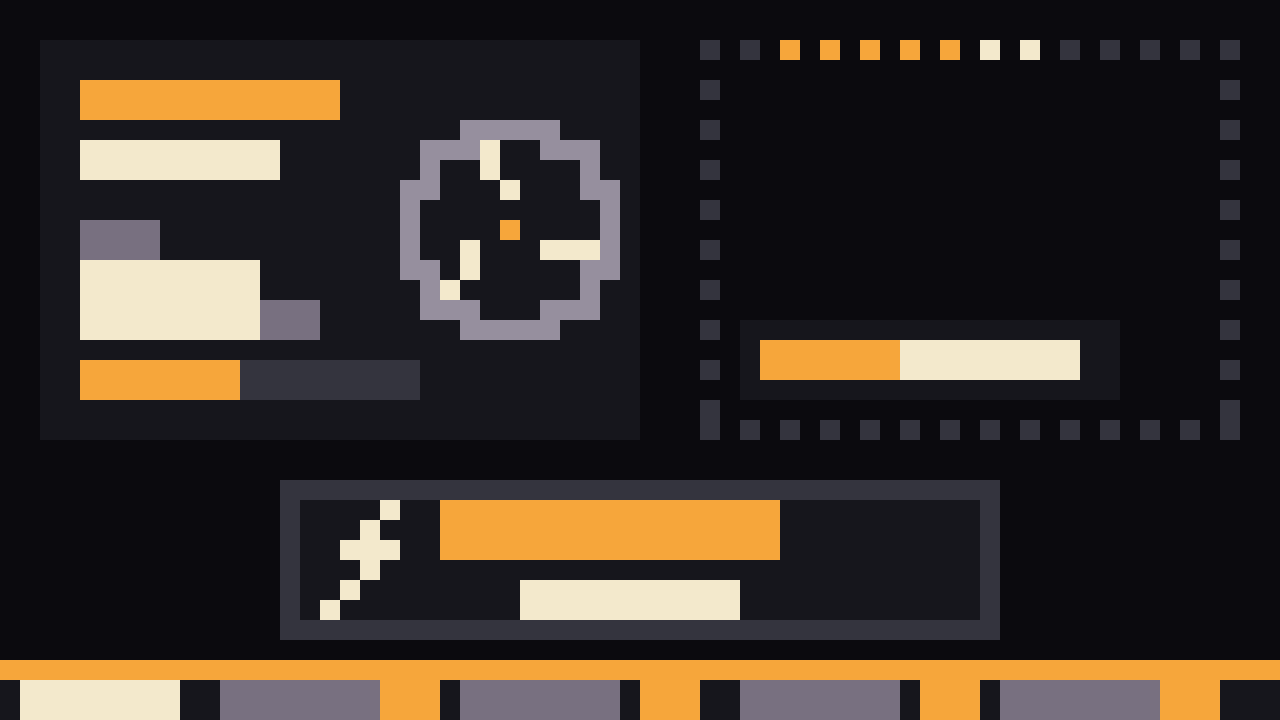
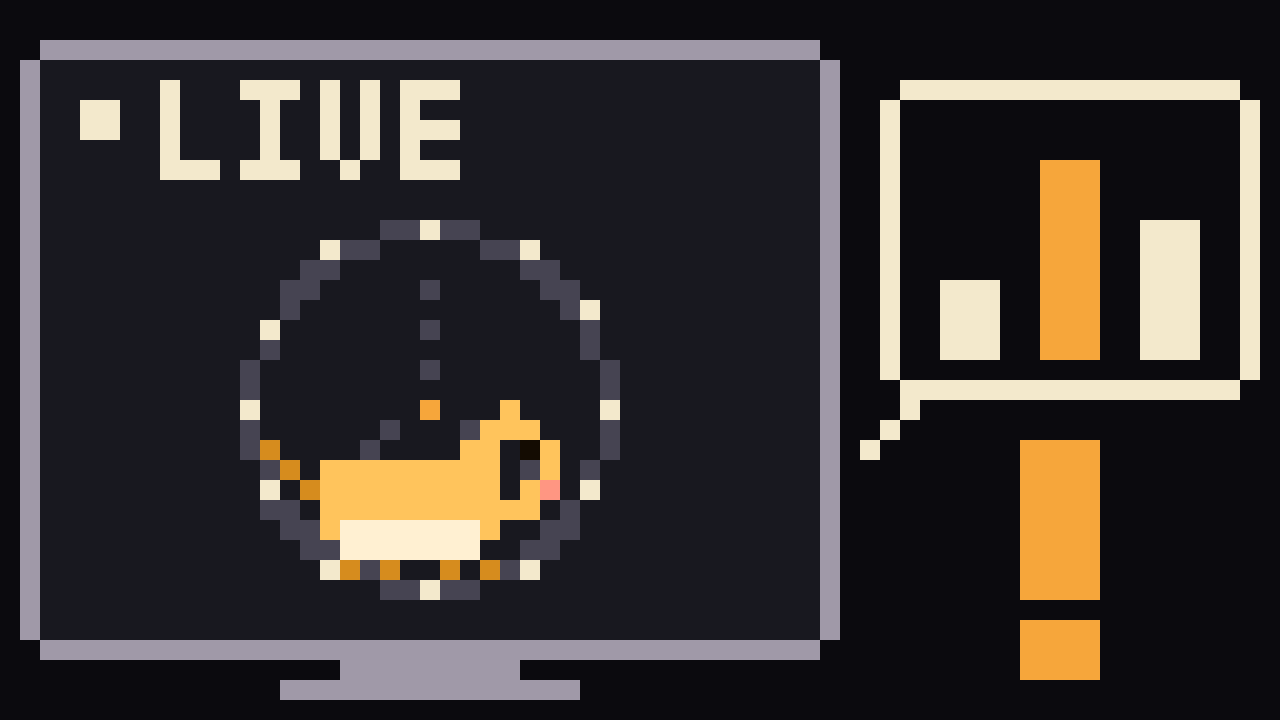
docs: headline image: a LIVE screen with the wheel, a chat bubble with the call bars

diff --git a/tools/card.py b/tools/card.py
@@ -1,13 +1,14 @@
 """The Code Lane headline image, drawn on the board's 64 x 36 LED grid and exported at 20 px per dot (1280 x 720):
-a stream scene with the kit's pieces on it: the LED board with the wheel, a cam frame with its running rim, an alert
-card with the zoomies bolt and the ticker along the bottom. Own drawing. Run: python tools/card.py"""
+a stream screen with LIVE in the corner and Squeektoshi running in his wheel on it, a chat bubble beside it with the
+three Round Call bars, and a big exclamation mark: the chat calls, the wheel settles. Own drawing. Run: python tools/card.py"""
 import math
 from pathlib import Path
 from PIL import Image, ImageDraw
 
 W, H = 64, 36
-BG, PLATE, RIM, DIM = (11, 10, 14), (22, 22, 28), (150, 143, 158), (52, 52, 62)
-AMBER, CREAM, LABEL = (246, 166, 59), (243, 233, 204), (120, 112, 128)
+BG, PLATE, RIM, DIM = (11, 10, 14), (24, 24, 31), (160, 153, 168), (70, 68, 82)
+AMBER, CREAM = (246, 166, 59), (243, 233, 204)
+FUR, FUR_DK, BELLY, INK, NOSE = (255, 196, 92), (214, 140, 30), (255, 240, 210), (20, 12, 2), (255, 150, 130)
 
 px = {}
 def put(x, y, c):
@@ -15,49 +16,64 @@ def put(x, y, c):
 def rect(x0, y0, x1, y1, c):
     for y in range(y0, y1 + 1):
         for x in range(x0, x1 + 1): put(x, y, c)
-def frame(x0, y0, x1, y1, c, step=1):
-    for x in range(x0, x1 + 1, step): put(x, y0, c); put(x, y1, c)
-    for y in range(y0, y1 + 1, step): put(x0, y, c); put(x1, y, c)
-def ring(cx, cy, r, c):
-    for k in range(int(r * 8)):
-        a = 2 * math.pi * k / int(r * 8)
+def frame(x0, y0, x1, y1, c, round_=True):
+    for x in range(x0, x1 + 1): put(x, y0, c); put(x, y1, c)
+    for y in range(y0, y1 + 1): put(x0, y, c); put(x1, y, c)
+    if round_:
+        for (x, y) in ((x0, y0), (x1, y0), (x0, y1), (x1, y1)): px.pop((x, y), None)
+def disc(cx, cy, r, c, r_in=-1):
+    for y in range(H):
+        for x in range(W):
+            d2 = (x - cx) ** 2 + (y - cy) ** 2
+            if r_in * r_in < d2 <= r * r + r: put(x, y, c)
+def ring(cx, cy, r, c, n=None):
+    n = n or int(r * 8)
+    for k in range(n):
+        a = 2 * math.pi * k / n
         put(round(cx + r * math.cos(a)), round(cy + r * math.sin(a)), c)
-def spoke(cx, cy, r, deg, c):
+def line(x0, y0, x1, y1, c):
+    n = max(abs(x1 - x0), abs(y1 - y0), 1)
+    for i in range(n + 1): put(round(x0 + (x1 - x0) * i / n), round(y0 + (y1 - y0) * i / n), c)
+TINY = {'L': ['100', '100', '100', '100', '111'], 'I': ['111', '010', '010', '010', '111'], 'V': ['101', '101', '101', '101', '010'], 'E': ['111', '100', '111', '100', '111']}
+def tiny(s, x, y, c):
+    for ch in s:
+        for j, row in enumerate(TINY[ch]):
+            for i, b in enumerate(row):
+                if b == '1': put(x + i, y + j, c)
+        x += 4
+
+# the screen: a rounded frame on a stand, a darker plate inside
+rect(2, 3, 40, 31, PLATE)
+frame(1, 2, 41, 32, RIM)
+rect(17, 33, 25, 33, RIM); rect(14, 34, 28, 34, RIM)
+# LIVE in the corner
+put(4, 5, CREAM); put(5, 5, CREAM); put(4, 6, CREAM); put(5, 6, CREAM)
+tiny('LIVE', 8, 4, CREAM)
+
+# the wheel on screen: dim rim, bright rungs, three thin spokes, the axle
+CX, CY, R = 21, 20, 9
+ring(CX, CY, R, DIM)
+ring(CX, CY, R, CREAM, 12)
+for deg in (30, 150, 270):
     a = math.radians(deg)
-    for d in range(2, int(r)): put(round(cx + d * math.cos(a)), round(cy + d * math.sin(a)), c)
+    for d in range(2, R - 1, 2): put(round(CX + d * math.cos(a)), round(CY + d * math.sin(a)), DIM)
+put(CX, CY, AMBER)
+# Squeektoshi running at the bottom of the drum, facing right
+rect(16, 23, 24, 26, FUR); disc(17, 25, 1, FUR); rect(17, 26, 23, 27, BELLY)
+disc(25, 23, 2, FUR); put(25, 20, FUR); put(26, 21, FUR)
+put(26, 22, INK); put(27, 24, NOSE)
+line(15, 24, 13, 22, FUR_DK)
+for x in (17, 19, 22, 24): put(x, 28, FUR_DK)
 
-# the LED board, top left: a plate with text lines and the wheel
-rect(2, 2, 31, 21, PLATE)
-rect(4, 4, 16, 5, AMBER)            # SQUEEKTOSHI
-rect(4, 7, 13, 8, CREAM)            # IS RUNNING
-rect(4, 11, 7, 12, LABEL)           # TODAY
-rect(4, 13, 12, 16, CREAM)          # 3.42
-rect(13, 15, 15, 16, LABEL)         # KM
-rect(4, 18, 20, 19, DIM); rect(4, 18, 11, 19, AMBER)   # block bar
-ring(25, 11, 5, RIM)
-for d in (20, 140, 260): spoke(25, 11, 5, d, CREAM)
-put(25, 11, AMBER)
-
-# the cam frame, top right: a dotted rim with the bright runner on it
-frame(35, 2, 61, 21, DIM, 2)
-for i, (x, y) in enumerate(((39, 2), (41, 2), (43, 2), (45, 2), (47, 2), (49, 2), (51, 2))):
-    put(x, y, CREAM if i >= 5 else AMBER)
-rect(37, 16, 55, 19, PLATE)
-rect(38, 17, 44, 18, AMBER); rect(45, 17, 53, 18, CREAM)   # name plate text
-
-# the alert card, bottom middle: the zoomies bolt and the words
-rect(14, 24, 49, 31, PLATE)
-frame(14, 24, 49, 31, DIM)
-for (x, y) in ((19, 25), (18, 26), (17, 27), (18, 27), (19, 27), (18, 28), (17, 29), (16, 30)): put(x, y, CREAM)
-rect(22, 25, 38, 27, AMBER)         # ZOOMIES!
-rect(26, 29, 36, 30, CREAM)         # 5.0 KM/H
-
-# the ticker along the bottom
-rect(0, 33, 63, 33, AMBER)
-rect(0, 34, 63, 35, PLATE)
-rect(1, 34, 8, 35, CREAM)
-for x0 in (11, 23, 37, 50): rect(x0, 34, x0 + 7, 35, LABEL)
-for x0 in (19, 32, 46, 58): rect(x0, 34, x0 + 2, 35, AMBER)
+# the chat bubble with the three Round Call bars, its tail pointing at the screen
+frame(44, 4, 62, 19, CREAM)
+line(46, 19, 43, 22, CREAM); put(47, 19, CREAM); put(44, 21, CREAM)
+rect(47, 14, 49, 17, CREAM)     # nap
+rect(52, 8, 54, 17, AMBER)      # jog, leading
+rect(57, 11, 59, 17, CREAM)     # zoomies
+# the call: a big exclamation mark
+rect(51, 22, 54, 29, AMBER)
+rect(51, 31, 54, 33, AMBER)
 
 out = Path(__file__).resolve().parent.parent / "docs"
 scale = 20
@@ -66,14 +82,16 @@ d = ImageDraw.Draw(im)
 for (x, y), c in px.items():
     d.rectangle([x * scale, y * scale, (x + 1) * scale - 1, (y + 1) * scale - 1], fill=c)
 im.save(out / "card-headline.png")
-pv = Image.new("RGB", (W * 10, H * 10), (0, 0, 0))
-pd = ImageDraw.Draw(pv)
-for y in range(H):
-    for x in range(W):
-        c = px.get((x, y), BG)
-        lum = (0.3 * c[0] + 0.59 * c[1] + 0.11 * c[2]) / 255
-        v = max(0.08, lum)
-        col = (int(60 * v), int(90 * v), int(255 * v)) if lum < 0.9 else (int(200 * v), int(215 * v), 255)
-        pd.ellipse([x * 10 + 1, y * 10 + 1, x * 10 + 9, y * 10 + 9], fill=col)
-pv.save(Path(r"C:/Users/user/.claude/jobs/cba2ae0e/tmp/kit-card-led.png"))
+# previews in the board's two tints
+for name, tint in (("blue", (60, 90, 255)), ("orange", (255, 110, 40))):
+    pv = Image.new("RGB", (W * 10, H * 10), (0, 0, 0))
+    pd = ImageDraw.Draw(pv)
+    for y in range(H):
+        for x in range(W):
+            c = px.get((x, y), BG)
+            lum = (0.3 * c[0] + 0.59 * c[1] + 0.11 * c[2]) / 255
+            v = max(0.08, lum)
+            col = tuple(int(t * v) for t in tint) if lum < 0.9 else tuple(min(255, int(t * 0.55 + 120)) for t in tint)
+            pd.ellipse([x * 10 + 1, y * 10 + 1, x * 10 + 9, y * 10 + 9], fill=col)
+    pv.save(Path(rf"C:/Users/user/.claude/jobs/cba2ae0e/tmp/kit-card-{name}.png"))
 print("wrote", out / "card-headline.png")
